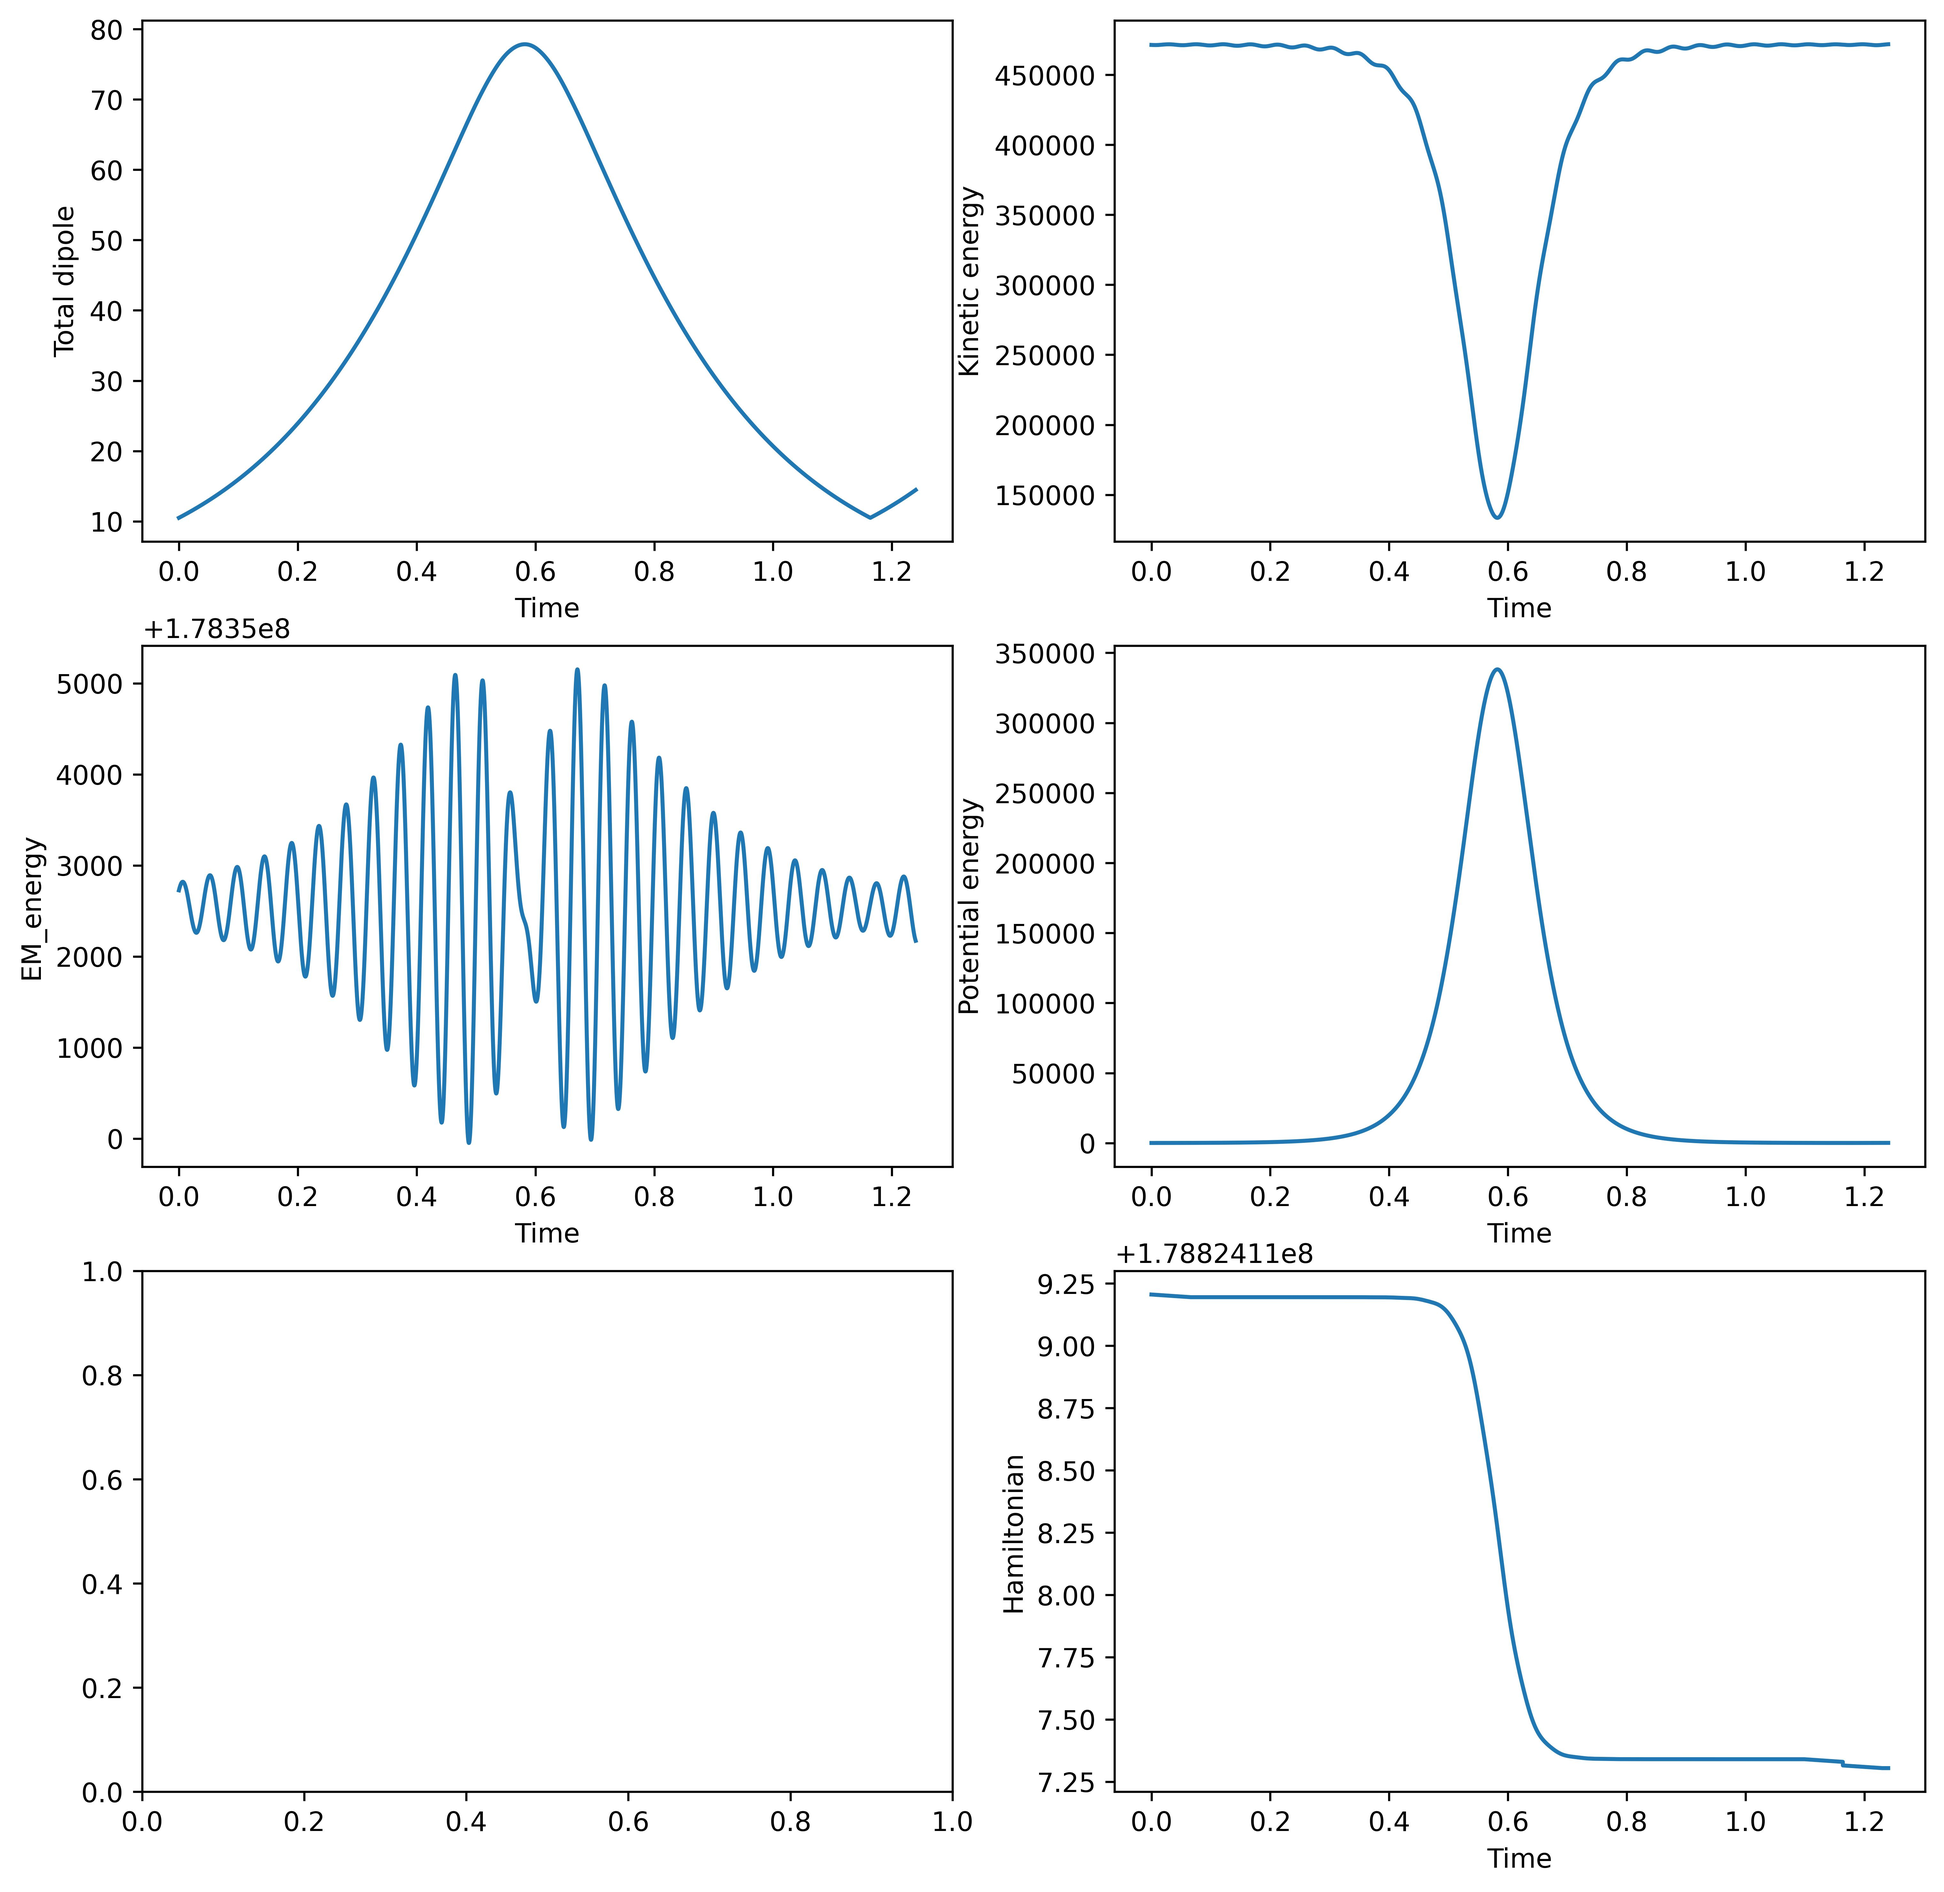
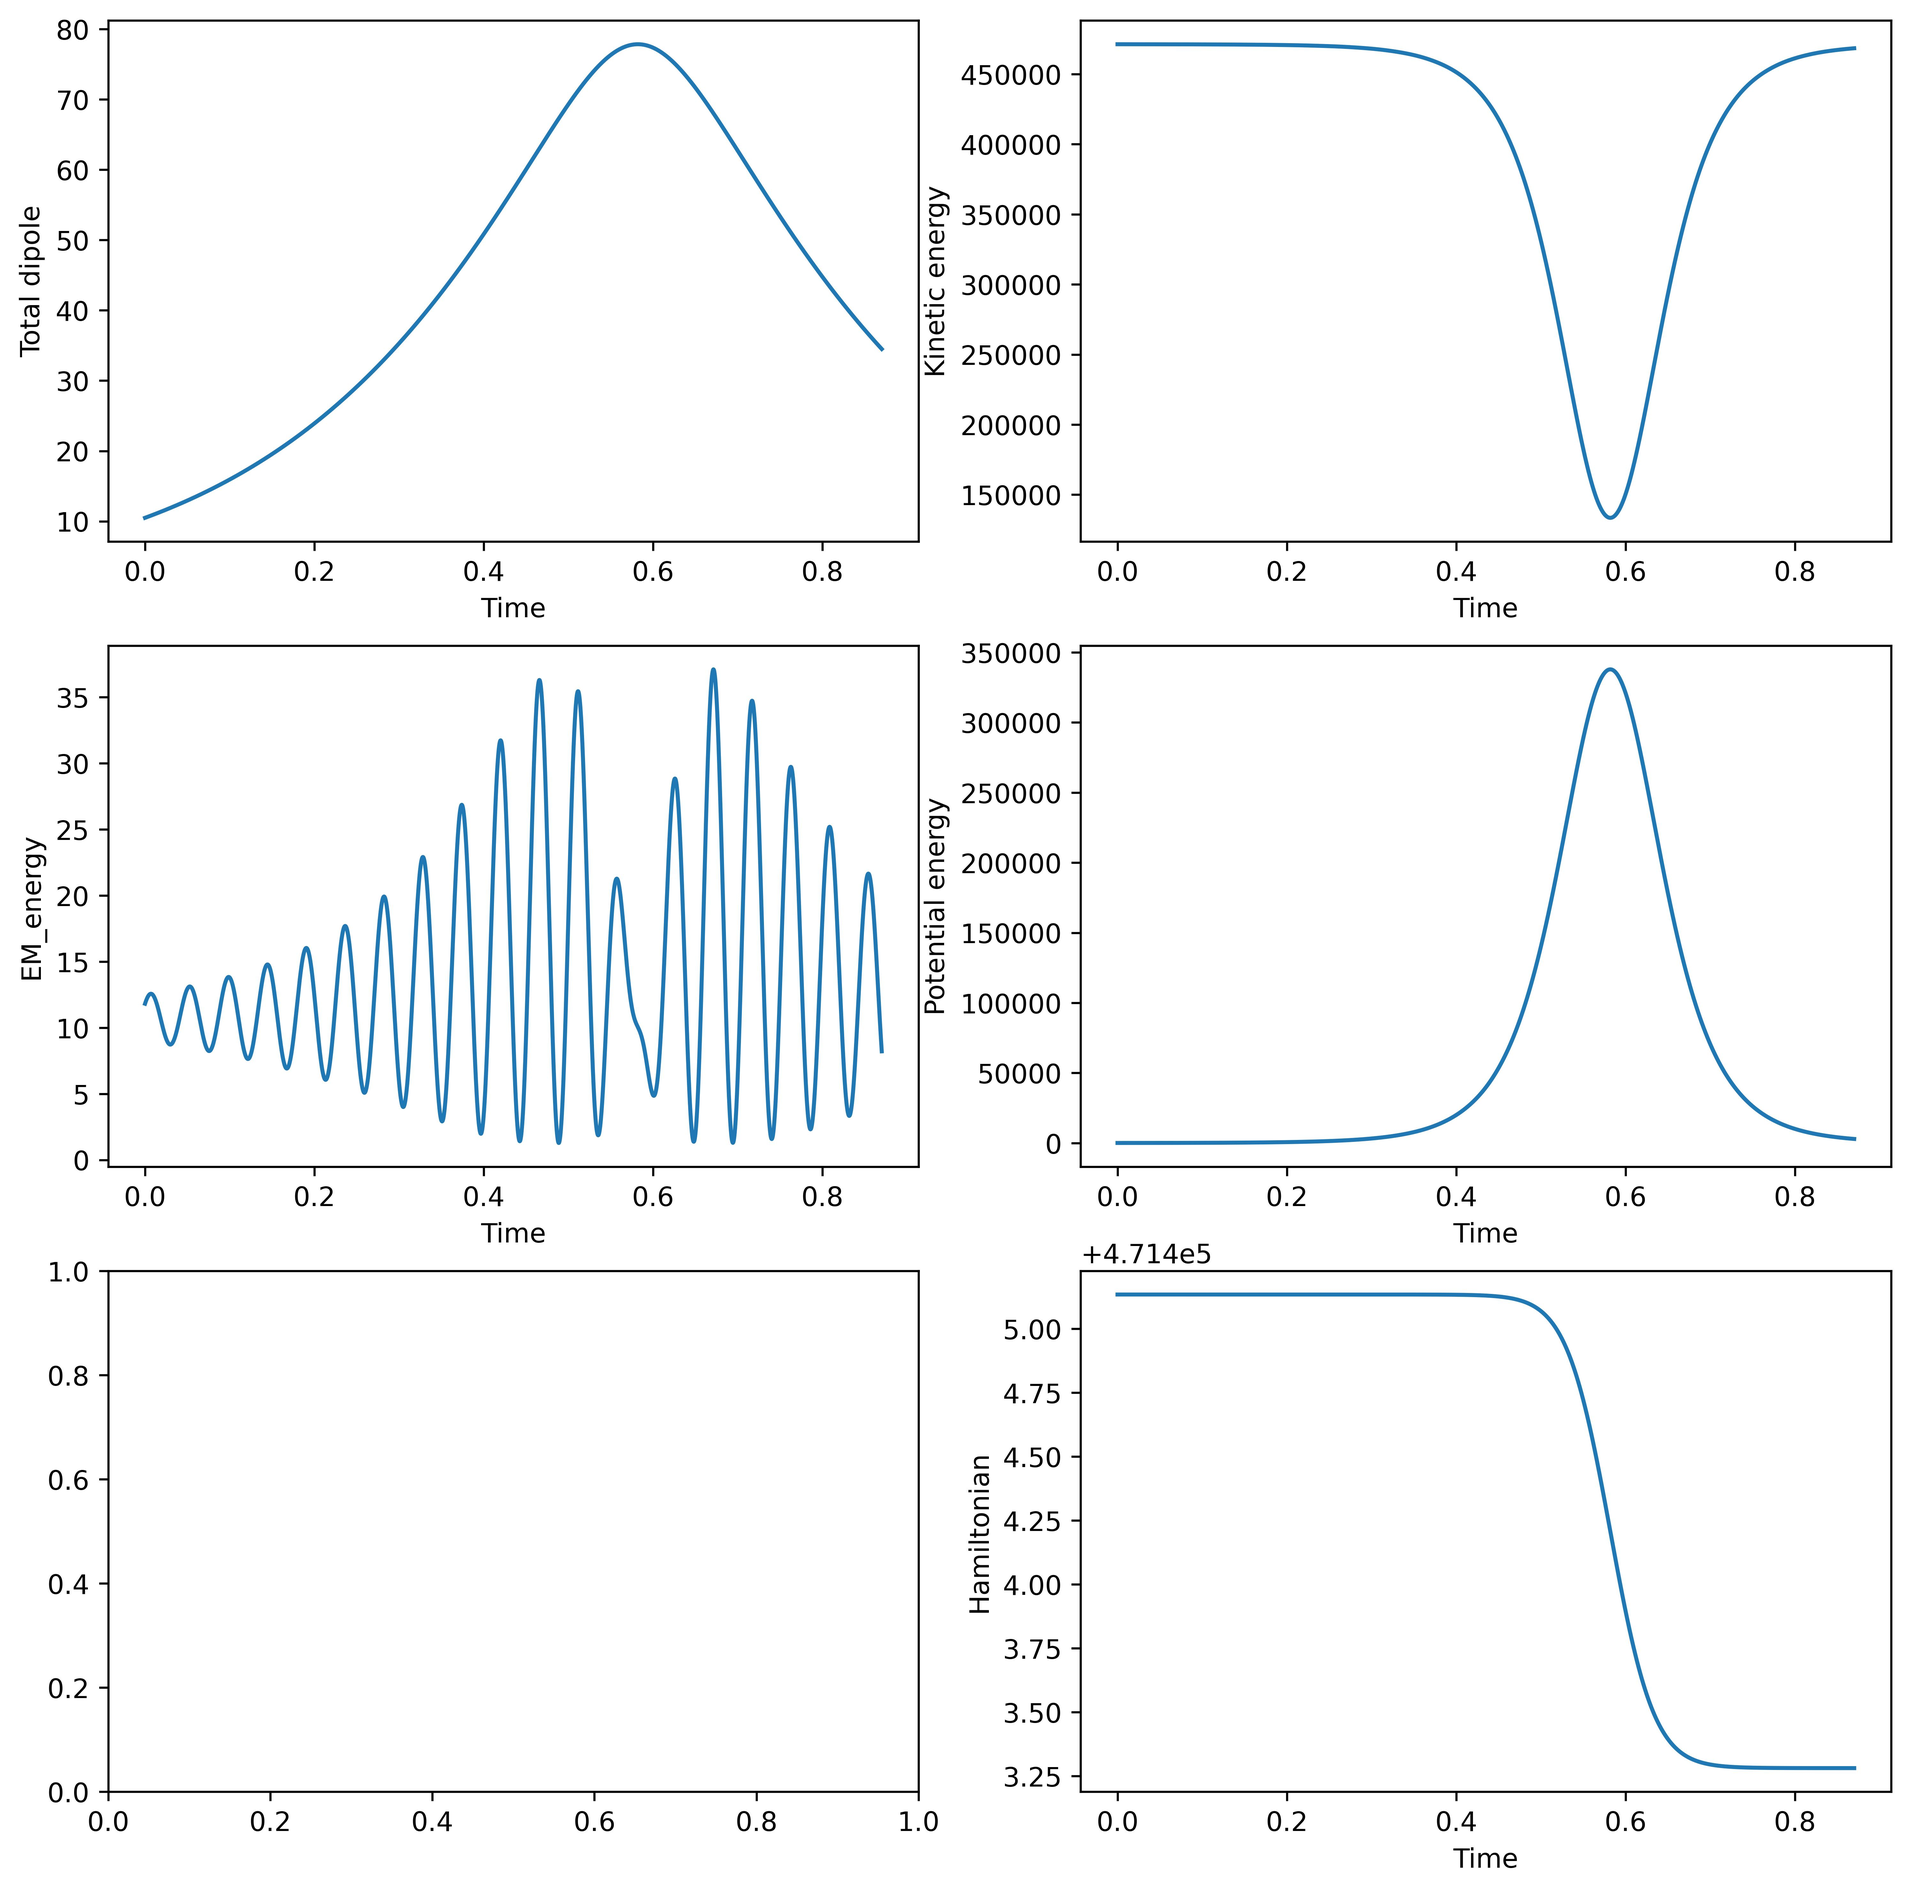
4/16/2024

diff --git a/main.py b/main.py
@@ -15,7 +15,7 @@ from dipole import SimpleDipoleFunction
 from parameter import epsilon_Ar_Ar, epsilon_Xe_Xe, epsilon_Ar_Xe, sigma_Ar_Ar, sigma_Xe_Xe, \
     sigma_Ar_Xe, M_Ar, M_Xe, mu0, d0, a
 
-from electromagnetic_si import VectorPotential
+from electromagnetic import VectorPotential
 
 import input_dat
 
@@ -141,8 +141,9 @@ dipole_function = SimpleDipoleFunction(
         )
 
 vector_potential = VectorPotential(
-        k_vector, amplitude = C, 
-        V = L ** 3, epsilon_0 = 1)
+        k_vector, amplitude = C,
+        #V = L ** 3, epsilon_0 = 1
+        )
 
 ###################################
 ###### SIMULATION START HERE ######
